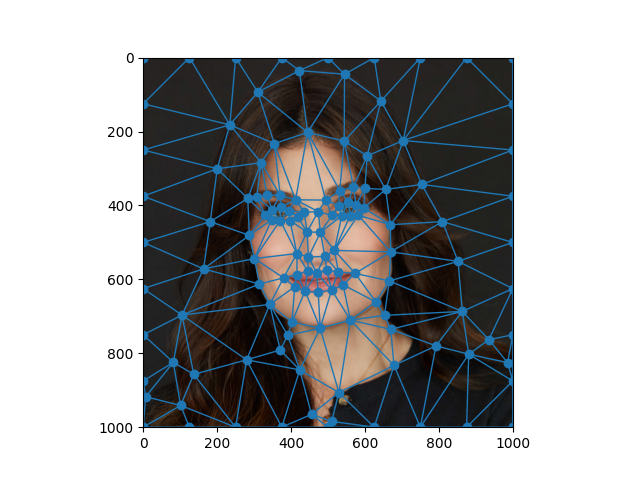
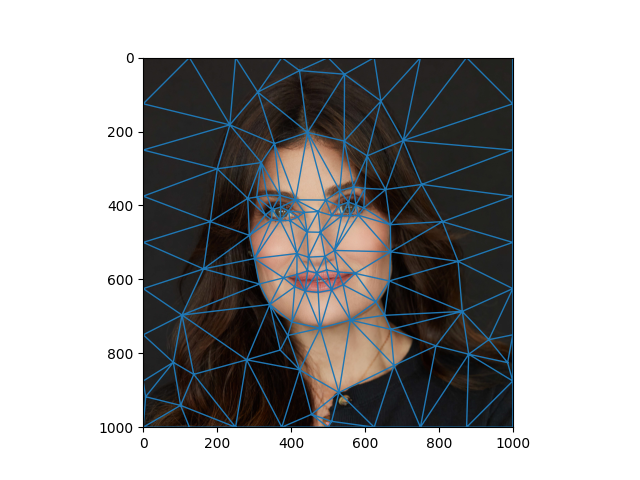
Generate meshes of two faces using their average

diff --git a/main.py b/main.py
@@ -10,6 +10,11 @@ from scipy.spatial import Delaunay
 # --------------------------------------------------------------------------------------
 
 
+def read_points(path: str) -> np.ndarray:
+    """Read array of points of an CSV, reading verticies"""
+    return pd.read_csv(path, header=None).to_numpy()
+
+
 def read_image(path: str) -> np.ndarray:
     """Read an image an array of linear RGB radiance values ∈ [0,1]"""
     return np.array(Image.open(path), dtype=np.float32) / 255
@@ -101,7 +106,6 @@ def run_draw_mesh(fname: str):
     triangles = Delaunay(points)
 
     plt.imshow(numpy_to_image(img))
-    plt.scatter(points[:, 0], points[:, 1])
     plt.triplot(points[:, 0], points[:, 1], triangles.simplices, linewidth=1)
 
     plt.axis((0, 1000, 1000, 0))
@@ -110,17 +114,51 @@ def run_draw_mesh(fname: str):
 
 def run_verify_points():
     plt.axis((0, 1000, 1000, 0))
-    points1 = pd.read_csv(f"points/idina_menzel.csv", header=None).to_numpy()
-    points2 = pd.read_csv(f"points/jamie_muscato.csv", header=None).to_numpy()
+    points1 = read_points("points/idina_menzel.csv")
+    points2 = read_points("points/jamie_muscato.csv")
     for p1, p2 in zip(points1, points2):
         plt.plot(p1[0], p1[1], "bo", ms=2)
         plt.plot(p2[0], p2[1], "ro", ms=2)
         plt.pause(0.2)
 
+def run_average_mesh():
+    menzel = resize(read_image(f"imgs/idina_menzel.png"), (1000, 1000))
+    muscato = resize(read_image(f"imgs/jamie_muscato.png"), (1000, 1000))
+
+    menzel_points = read_points("points/idina_menzel.csv")
+    muscato_points = read_points("points/jamie_muscato.csv")
+    points = (menzel_points + muscato_points) / 2
+
+    border = []
+    for i in np.linspace(0, 1000, 9):
+        border.extend([[0, i], [1000, 1000 - i], [1000 - i, 0], [i, 1000]])
+    points = np.vstack([points, np.array(border)])
+    menzel_points = np.vstack([menzel_points, np.array(border)])
+    muscato_points = np.vstack([muscato_points, np.array(border)])
+
+    triangles = Delaunay(points)
+
+    plt.axis((0, 1000, 1000, 0))
+
+    plt.triplot(points[:, 0], points[:, 1], triangles.simplices)
+    plt.savefig(f"out/average_mesh.png")
+    plt.show()
+
+    plt.triplot(menzel_points[:, 0], menzel_points[:, 1], triangles.simplices)
+    plt.imshow(numpy_to_image(menzel))
+    plt.savefig(f"out/average_idina_menzel_mesh.png")
+    plt.show()
+
+    plt.triplot(muscato_points[:, 0], muscato_points[:, 1], triangles.simplices)
+    plt.imshow(numpy_to_image(muscato))
+    plt.savefig(f"out/average_jamie_muscato_mesh.png")
+    plt.show()
+
 if __name__ == "__main__":
     # run_naive_cross_fade()
     # run_draw_points("idina_menzel")
     # run_draw_points("jamie_muscato")
+    # run_verify_points()
     # run_draw_mesh("idina_menzel")
     # run_draw_mesh("jamie_muscato")
-    run_verify_points()
+    run_average_mesh()
